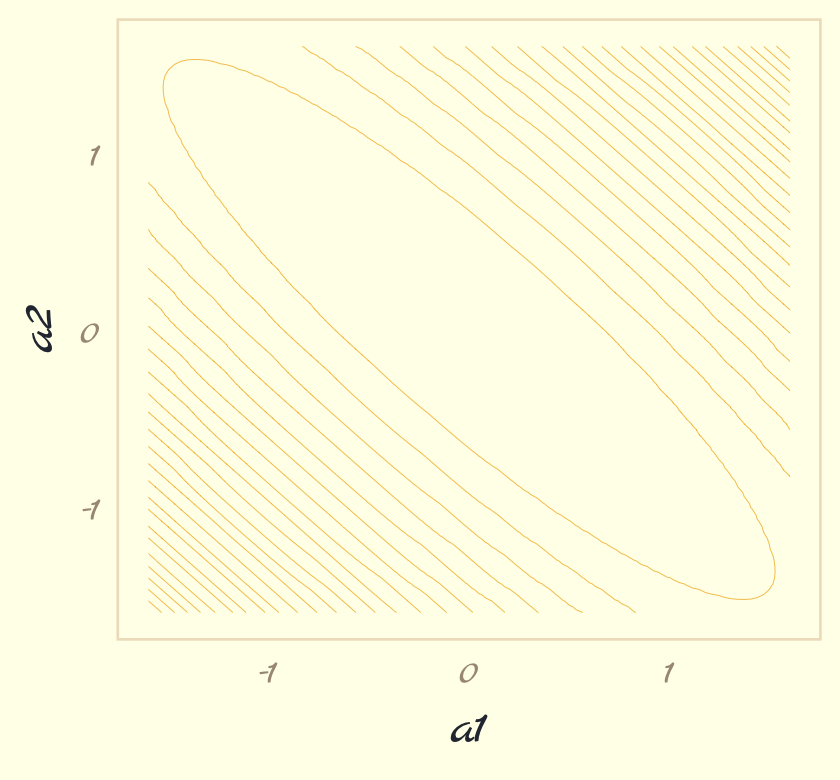
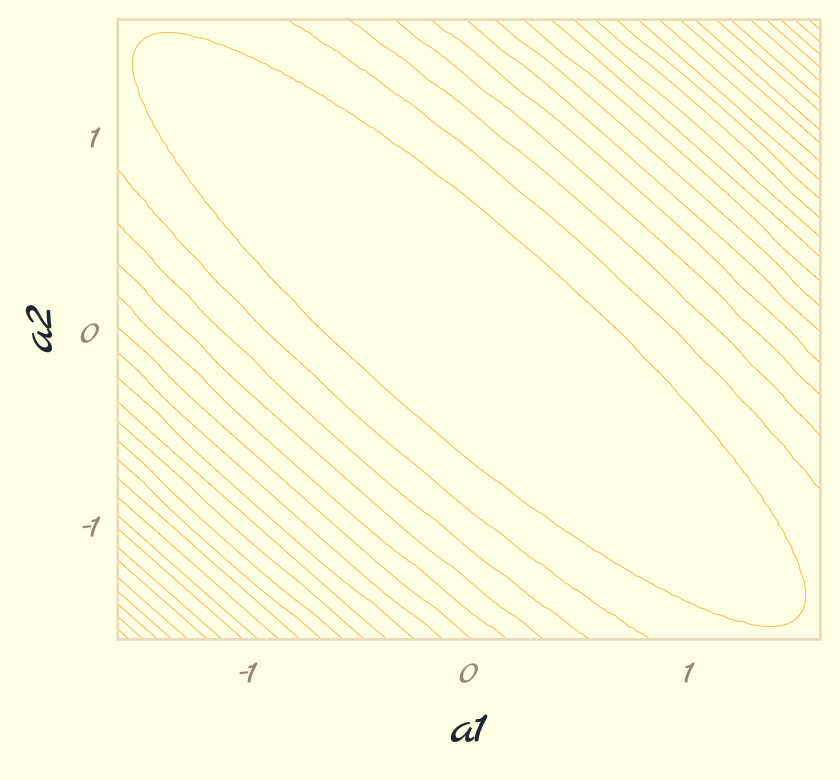
minor code/prose edits

diff --git a/in_the_works/9.2.2.md b/in_the_works/9.2.2.md
@@ -159,6 +159,8 @@ contour_plot <-
   geom_contour(aes(x = a1, y = a2, z = d), 
                size = 1/8, color = pomological_palette[4],
                breaks = 9^(-(10 * 1:25))) +
+  scale_x_continuous(expand = c(0, 0)) +
+  scale_y_continuous(expand = c(0, 0)) +
   theme_pomological_fancy(base_family = "Marck Script")
 
 contour_plot
@@ -264,8 +266,6 @@ p1 <-
        y = "a2") +
   scale_shape_manual(values = c(21, 19)) +
   scale_color_manual(values = pomological_palette[8:9]) +
-  scale_x_continuous(expand = c(0, 0)) +
-  scale_y_continuous(expand = c(0, 0)) +
   theme_pomological_fancy(base_family = "Marck Script")
 
 p1
@@ -292,10 +292,14 @@ p2 <-
        x = "a1") +
   scale_shape_manual(values = c(21, 19)) +
   scale_color_manual(values = pomological_palette[8:9]) +
-  scale_x_continuous(expand = c(0, 0)) +
   scale_y_continuous(NULL, breaks = NULL, expand = c(0, 0)) +
   theme_pomological_fancy(base_family = "Marck Script")
+```
 
+    ## Scale for 'y' is already present. Adding another scale for 'y', which will replace the existing
+    ## scale.
+
+``` r
 library(patchwork)
 (p1 + p2) + 
   plot_annotation(theme = theme_pomological_fancy(base_family = "Marck Script"),
@@ -305,19 +309,19 @@ library(patchwork)
 
 <img src="9.2.2_files/figure-gfm/unnamed-chunk-12-1.png" width="624" style="display: block; margin: auto;" />
 
-Our acceptance rates differ from McElreat’s due to simulation variance.
+Our acceptance rates differ from McElreath’s due to simulation variance.
 If you want to get a sense of stability in the acceptance rates, just
 simulate some more. For example, we might wrap `metropolis()` inside
 another function that takes a simulation seed value.
 
 ``` r
-metropolis_with_seed <- function(seed) {
+metropolis_with_seed <- function(seed, step_size = 0.1) {
   
   set.seed(seed)
   
   met <-
     metropolis(num_proposals = 50,
-               step_size = 0.1,
+               step_size = step_size,
                starting_point = c(-1,1))
   
   return(met$acceptance_rate)
@@ -343,3 +347,6 @@ ars %>%
 ```
 
 <img src="9.2.2_files/figure-gfm/unnamed-chunk-15-1.png" width="336" style="display: block; margin: auto;" />
+
+If you iterate with `step_size = 0.25`, instead, the resulting histogram
+will look very different.
